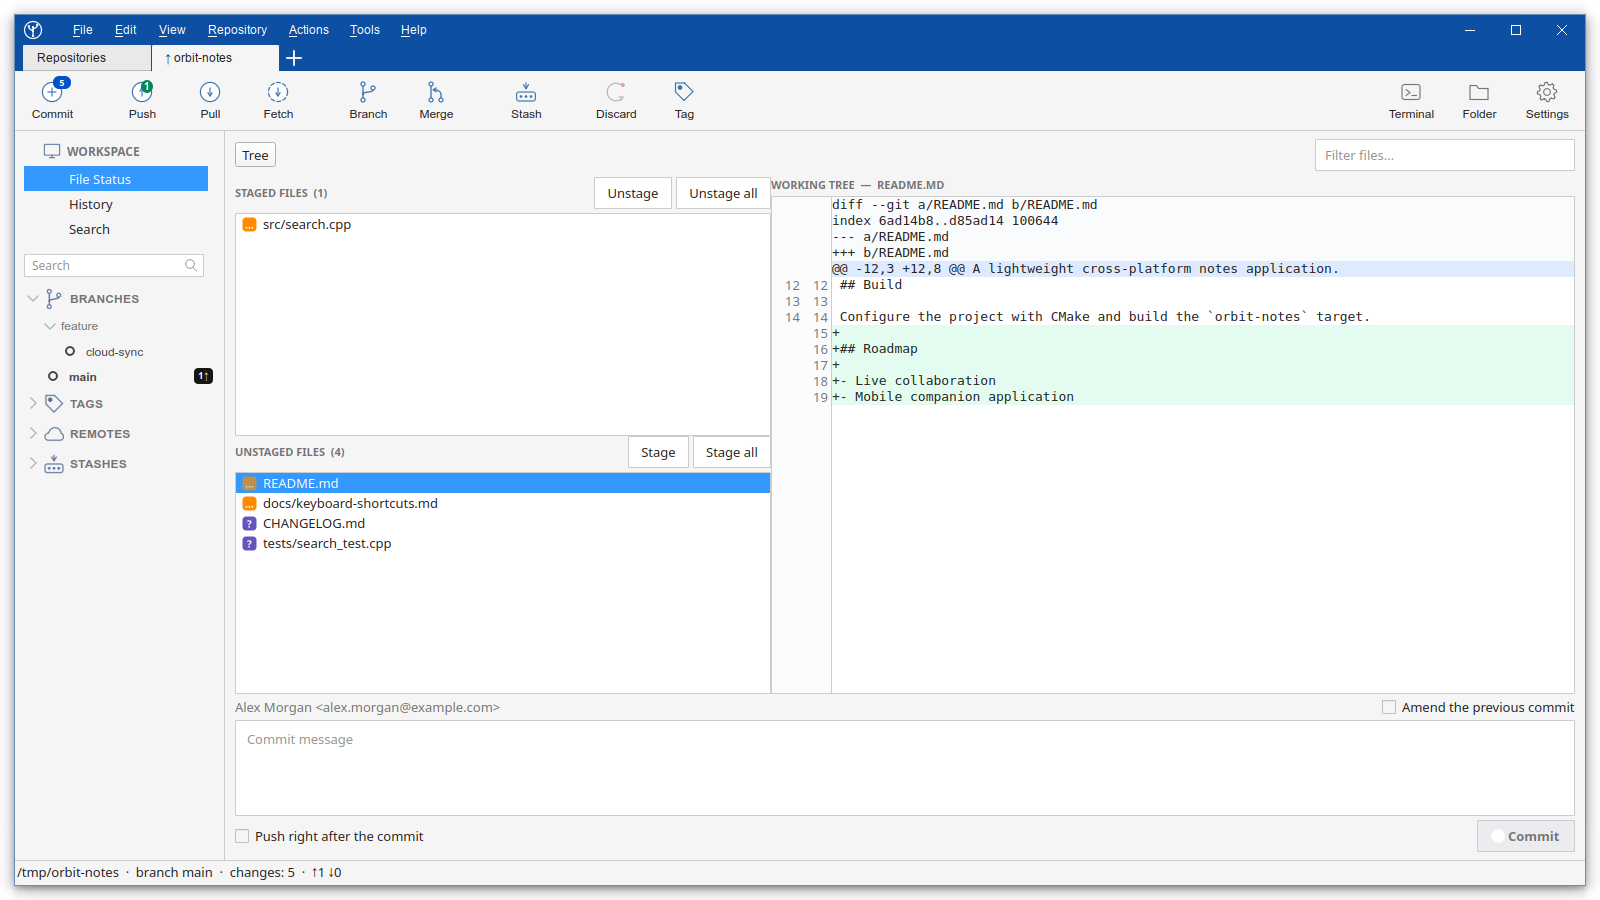
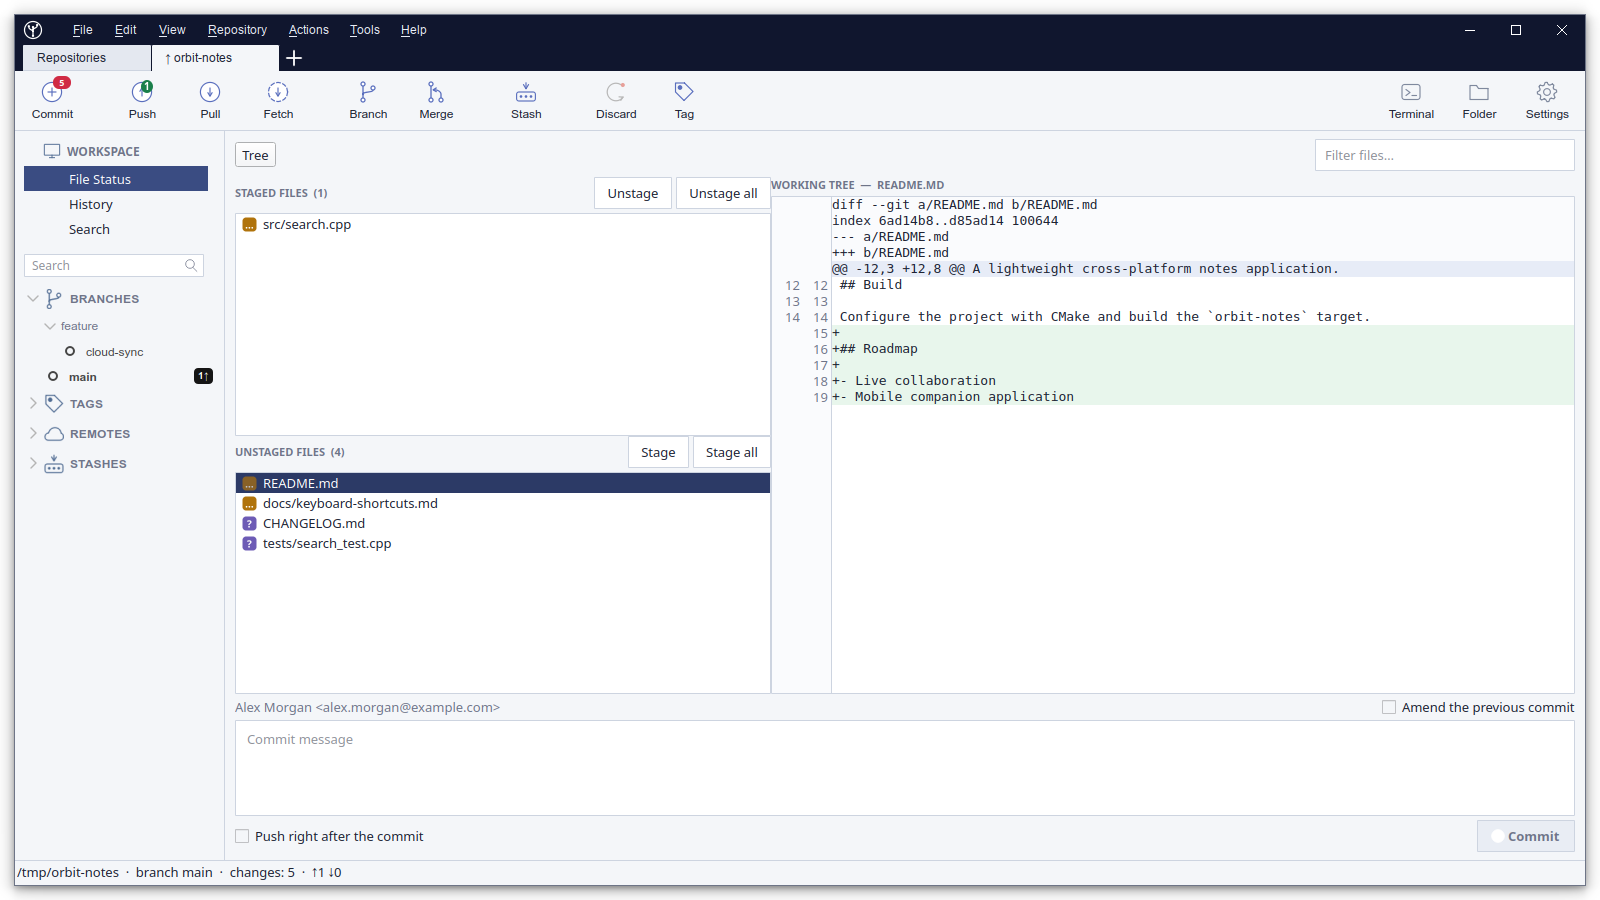
Refresh screenshots for the updated theme

Changed region(s): [[0.0, 0.0, 1.0, 0.0933], [0.125, 0.4978, 0.5, 0.56], [0.0, 0.1867, 0.1562, 0.2178]]

diff --git a/icons.cpp b/icons.cpp
@@ -22,9 +22,7 @@ qreal devicePixelRatio() {
     return screen != nullptr ? screen->devicePixelRatio() : 1.0;
 }
 
-/// Toolbar icons are built once and are not repainted when the theme changes,
-/// so these tones are picked to stay legible on both the light and the dark
-/// background rather than to match one palette exactly.
+/// Fixed toolbar colors that remain legible in both themes.
 QColor defaultColor(const Icons::Glyph glyph) {
     switch (glyph) {
         case Icons::Glyph::Trash:
